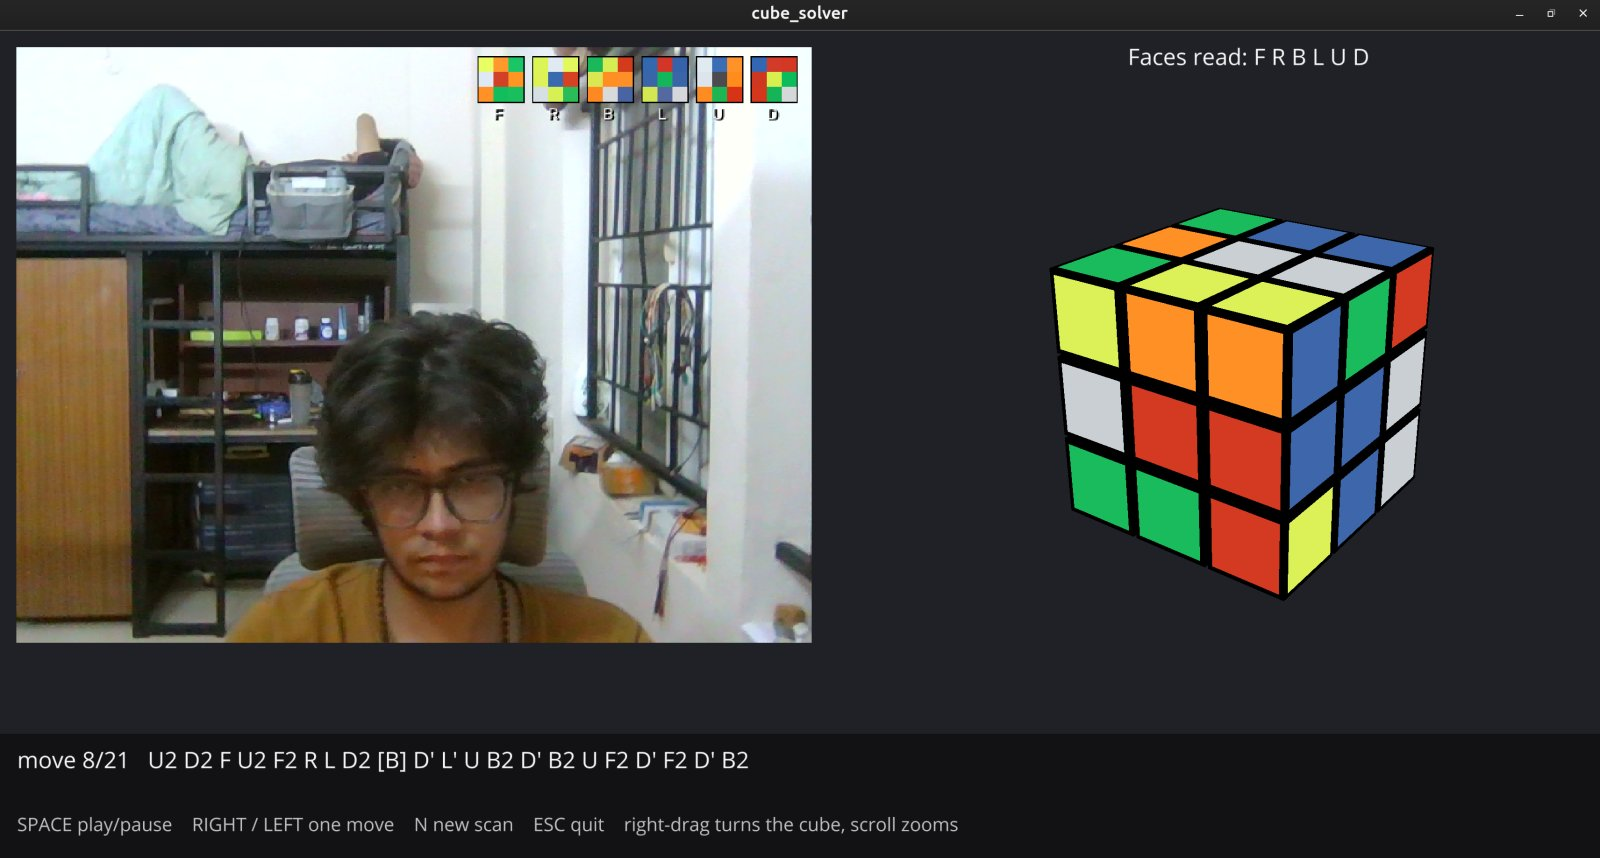
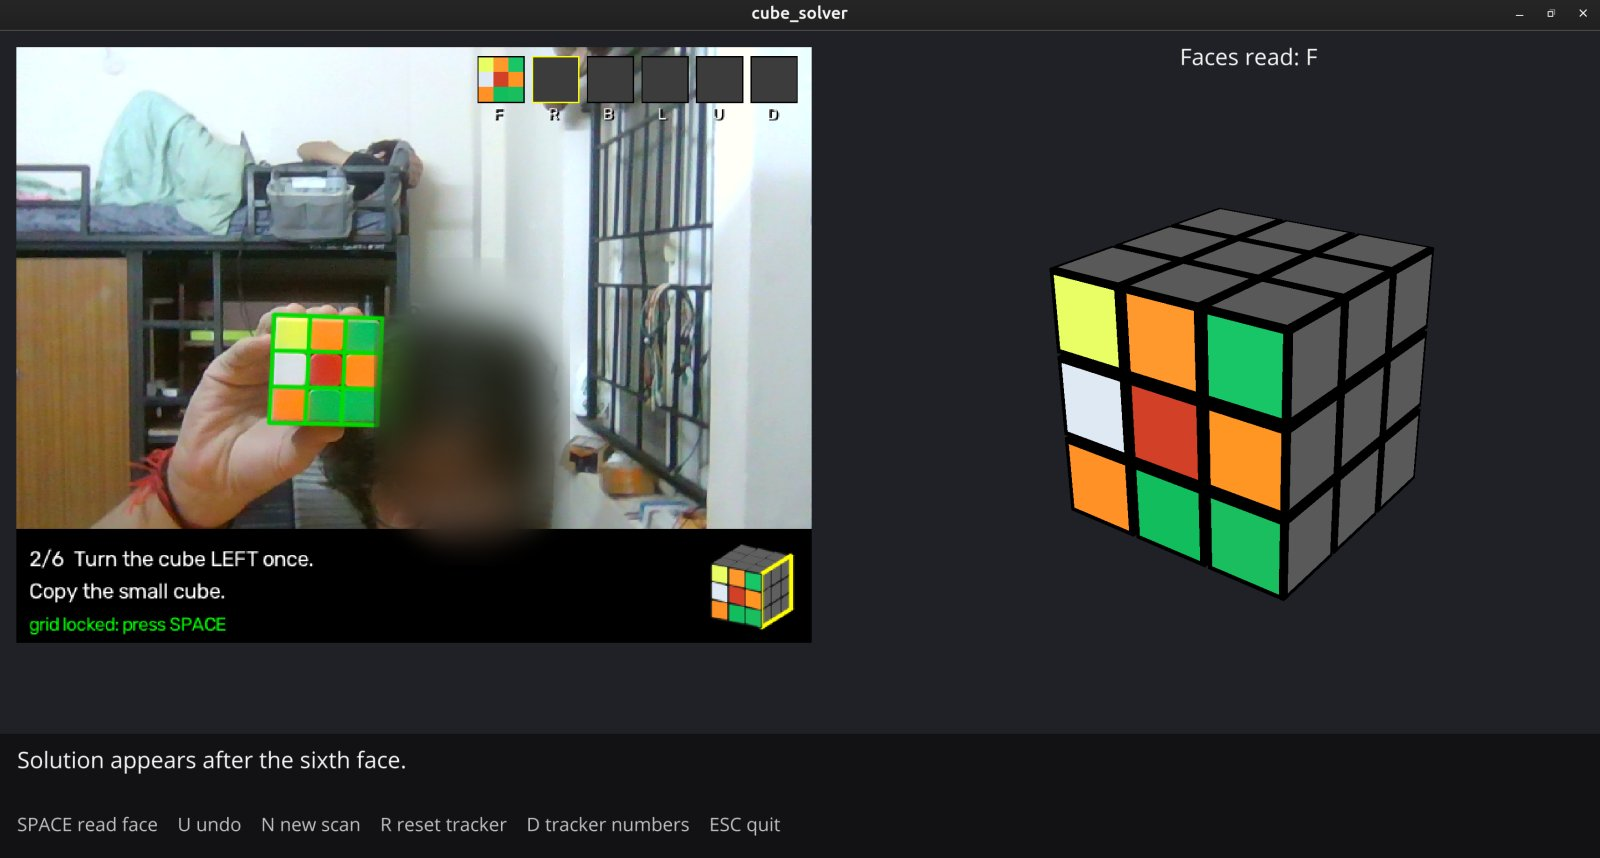
docs: replace README screenshot

diff --git a/README.md b/README.md
@@ -4,7 +4,7 @@ Reads the full state of a 3x3 Rubik's cube from an ordinary webcam and solves it
 
 It works on stickered and stickerless cubes, needs no manual grid alignment and no colour calibration, and runs in front of an arbitrary background.
 
-![The single window: camera on the left, the scanned cube playing its solution on the right](docs/window.jpg)
+![The single window mid-scan: the grid locked on the cube in hand (left) and the faces read so far on the 3D cube (right)](docs/window.jpg)
 
 ## How it works
 
